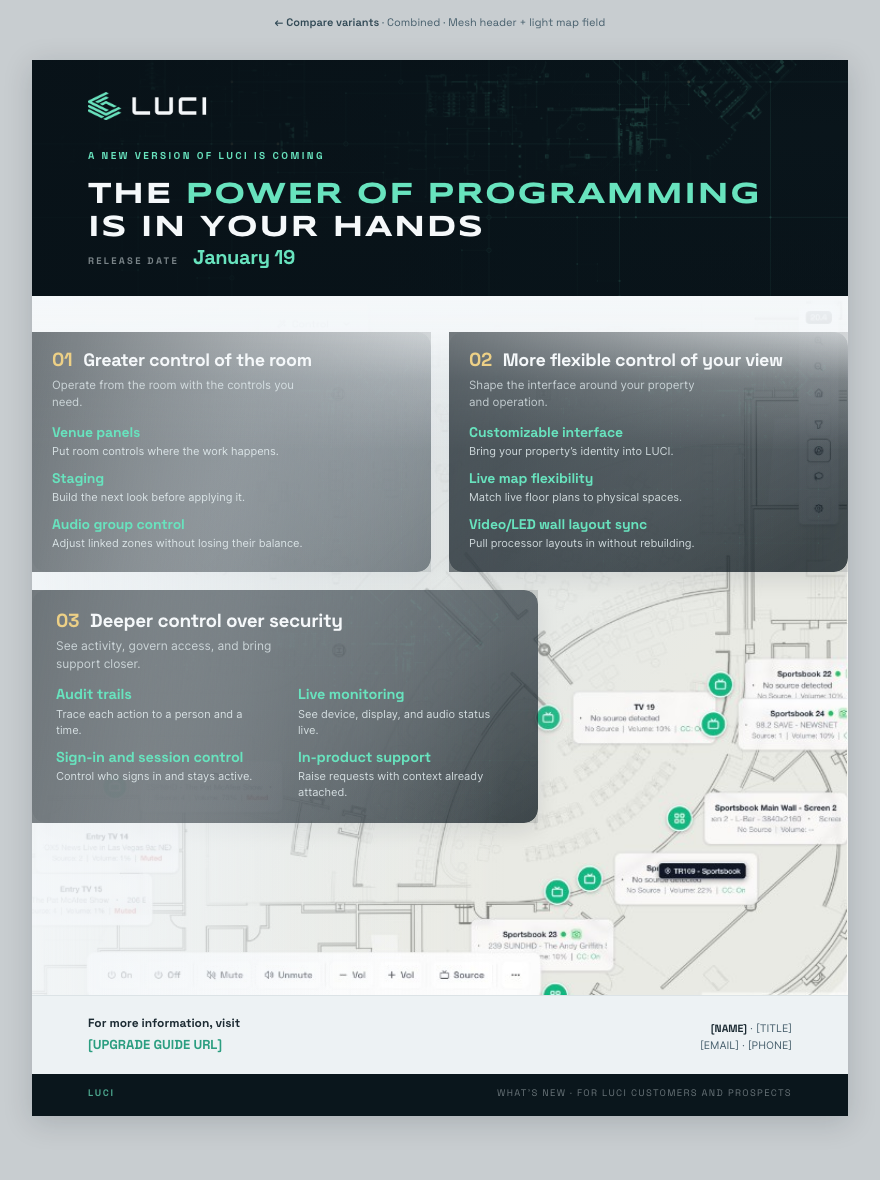
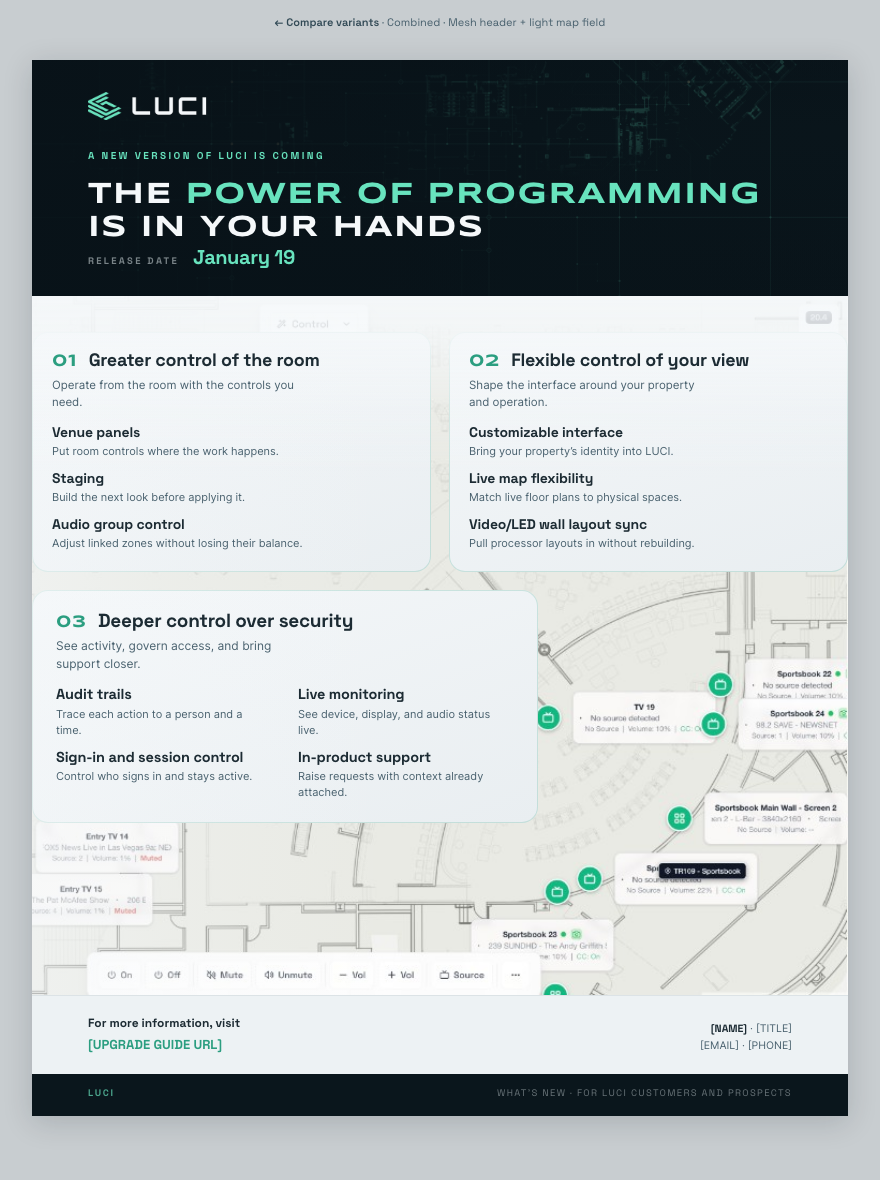
What's New one-pager: light hairline cards, brochure color discipline
Remove the dark translucent plates (mesh + scrim + navy fill).
Cards are now light gradient (#F4F7F9→#E9EEF1) with an inset
mint hairline — the brochure softcard treatment.

Accent fixed to brochure standard (was inverted/corny):
- numeral: Syncopate, mint-dark (--accent-light) — was gold
- promise name + feature names: ink-strong (near-black) — was
  off-white / mint
- lead + body: navy-muted Inter — was translucent white

Card 02 renamed 'More flexible control of your view' →
'Flexible control of your view'. Placement kept (01/02 top
row, 03 wider below). Field scrim lightened so the map shows
through more now that cards carry their own fill.

Changed region(s): [[0.0307, 0.2746, 0.9818, 0.7932], [0.1227, 0.7627, 0.1534, 0.7932]]

diff --git a/LUCI Systems Design System/ui_kits/sales/new-luci-whats-new-onepager-flow-c.html b/LUCI Systems Design System/ui_kits/sales/new-luci-whats-new-onepager-flow-c.html
@@ -31,7 +31,7 @@ body{font-family:var(--font-body);background:#c8cdd0;color:var(--ink);font-size:
 @media print{
   body{background:#fff}.hub-link{display:none}
   .sheet{margin:0;box-shadow:none;page-break-after:always}
-  .mast,.mast__mesh,.mast__scrim,.field,.field__shot,.field__scrim,.copy,.p,.p__mesh,.p__scrim,.p__inner,.foot,.close,.p__num{-webkit-print-color-adjust:exact;print-color-adjust:exact}
+  .mast,.mast__mesh,.mast__scrim,.field,.field__shot,.field__scrim,.copy,.p,.p__inner,.foot,.close,.p__num{-webkit-print-color-adjust:exact;print-color-adjust:exact}
 }
 
 /* ── HEADER (Variant B) ──────────────────────────────────────────────── */
@@ -75,14 +75,10 @@ body{font-family:var(--font-body);background:#c8cdd0;color:var(--ink);font-size:
 .field__scrim{position:absolute;inset:0;z-index:1;pointer-events:none;
   background:
     linear-gradient(to bottom,
-      rgba(245,248,250,0.96) 0%, rgba(245,248,250,0.90) 5%,
-      rgba(245,248,250,0.30) 12%, rgba(245,248,250,0) 22%),
+      rgba(245,248,250,0.94) 0%, rgba(245,248,250,0.80) 6%,
+      rgba(245,248,250,0.18) 16%, rgba(245,248,250,0) 26%),
     linear-gradient(to right,
-      rgba(245,248,250,0.82) 0%, rgba(245,248,250,0.62) 14%,
-      rgba(245,248,250,0.24) 32%, transparent 58%),
-    linear-gradient(135deg,
-      rgba(220,230,238,0.88) 0%, rgba(220,230,238,0.68) 24%,
-      rgba(220,230,238,0.30) 48%, transparent 68%)}}
+      rgba(245,248,250,0.50) 0%, rgba(245,248,250,0.22) 18%, transparent 44%)}}
 
 .copy{position:relative;z-index:2;height:100%;display:flex;flex-direction:column;
   padding:18px 32px 34px}
@@ -96,50 +92,31 @@ body{font-family:var(--font-body);background:#c8cdd0;color:var(--ink);font-size:
    base, same mesh texture at low opacity, directional scrim so type reads.
    Translucent so the map shows through — the edge is soft because the
    map reads through the plate, not because of a paper mat. */
-.p{position:relative;color:var(--off-white);padding:18px 20px 20px;
-  border-radius:14px;
-  box-shadow:0 8px 22px rgba(10,22,28,0.10)}
-.p::before{content:"";position:absolute;inset:0;z-index:0;border-radius:14px;
-  background:linear-gradient(152deg,
-    rgba(10,22,28,0.74) 0%, rgba(6,18,26,0.68) 60%, rgba(10,22,28,0.74) 100%);
-  -webkit-mask-image:radial-gradient(ellipse 100% 100% at center,#000 84%,transparent 100%);
-  mask-image:radial-gradient(ellipse 100% 100% at center,#000 84%,transparent 100%)}
-.p__mesh{position:absolute;inset:0;z-index:0;pointer-events:none;
-  width:100%;height:100%;object-fit:cover;object-position:60% 30%;opacity:0.22;
-  -webkit-mask-image:radial-gradient(ellipse 100% 100% at center,#000 84%,transparent 100%);
-  mask-image:radial-gradient(ellipse 100% 100% at center,#000 84%,transparent 100%)}
-.p__scrim{position:absolute;inset:0;z-index:1;pointer-events:none;
-  background:linear-gradient(100deg,
-    rgba(8,18,24,0.55) 0%, rgba(8,18,24,0.30) 50%, rgba(8,18,24,0.10) 100%);
-  -webkit-mask-image:radial-gradient(ellipse 100% 100% at center,#000 84%,transparent 100%);
-  mask-image:radial-gradient(ellipse 100% 100% at center,#000 84%,transparent 100%)}
-.p__inner{position:relative;z-index:2}
+.p{position:relative;color:var(--ink);padding:18px 20px 20px;
+  border-radius:16px;
+  background:linear-gradient(160deg,#F4F7F9 0%,#E9EEF1 100%);
+  box-shadow:inset 0 0 0 1px rgba(43,158,128,0.20)}
+.p__inner{position:relative;z-index:1}
 .p:nth-child(3){grid-column:1 / -1;justify-self:start;width:62%;padding:20px 24px 22px}
 
 .p__head{display:flex;align-items:baseline;gap:11px}
-/* Gold numeral = one gold per card, same rule as the header's one gold word. */
-.p__num{flex:none;font-family:var(--font);font-weight:700;font-size:19px;
-  line-height:1;letter-spacing:-0.02em;color:var(--gold)}
+.p__num{flex:none;font-family:var(--display);font-weight:700;font-size:17px;
+  line-height:1;letter-spacing:0.06em;color:var(--accent-light);padding-top:3px}
 .p__name{font-family:var(--font);font-weight:700;font-size:18px;
-  line-height:1.15;letter-spacing:-0.02em;color:var(--off-white)}
+  line-height:1.15;letter-spacing:-0.015em;color:var(--ink-strong)}
 .p:nth-child(3) .p__name{font-size:19px}
-/* Short lead under the promise name, from the locked copy. Quieter than
-   the name, present enough to orient. */
 .p__lead{margin-top:6px;font-family:var(--font-body);font-weight:400;font-size:11.5px;
-  line-height:1.45;color:rgba(235,245,248,0.72);max-width:34ch}
+  line-height:1.45;color:var(--navy-muted);max-width:34ch}
 .p:nth-child(3) .p__lead{font-size:12px}
 
-/* Mint feature names = the one structural accent on the plate, same role
-   as mint in the header (kicker, date). Bigger than the prior 12.5px so
-   they actually scan — this is the magnetism, from type not chrome. */
 .features{margin:14px 0 0;display:flex;flex-direction:column;gap:10px}
 .p:nth-child(3) .features{display:grid;grid-template-columns:1fr 1fr;gap:10px 26px}
 .ft{padding:0}
 .ft dt{display:block;font-family:var(--font);font-weight:700;font-size:14px;
-  letter-spacing:-0.01em;color:var(--mint);line-height:1.2}
+  letter-spacing:-0.01em;color:var(--ink-strong);line-height:1.2}
 .p:nth-child(3) .ft dt{font-size:14.5px}
 .ft dd{display:block;margin:3px 0 0;font-family:var(--font-body);font-weight:400;font-size:11px;
-  line-height:1.45;color:rgba(235,245,248,0.82)}
+  line-height:1.45;color:var(--navy-muted)}
 .p:nth-child(3) .ft dd{max-width:30ch}
 
 /* ── FOOTER (includes "for more information") ────────────────────────── */
@@ -187,8 +164,6 @@ body{font-family:var(--font-body);background:#c8cdd0;color:var(--ink);font-size:
 
         <div class="promises">
           <section class="p">
-            <img class="p__mesh" src="assets/textures/luci-bg-hero-with-plan-transparent-1920x1080.svg" alt="" aria-hidden="true">
-            <span class="p__scrim" aria-hidden="true"></span>
             <div class="p__inner">
               <div class="p__head">
                 <span class="p__num">01</span>
@@ -204,12 +179,10 @@ body{font-family:var(--font-body);background:#c8cdd0;color:var(--ink);font-size:
           </section>
 
           <section class="p">
-            <img class="p__mesh" src="assets/textures/luci-bg-hero-with-plan-transparent-1920x1080.svg" alt="" aria-hidden="true">
-            <span class="p__scrim" aria-hidden="true"></span>
             <div class="p__inner">
               <div class="p__head">
                 <span class="p__num">02</span>
-                <h3 class="p__name">More flexible control of your view</h3>
+                <h3 class="p__name">Flexible control of your view</h3>
               </div>
               <p class="p__lead">Shape the interface around your property and operation.</p>
               <dl class="features">
@@ -221,8 +194,6 @@ body{font-family:var(--font-body);background:#c8cdd0;color:var(--ink);font-size:
           </section>
 
           <section class="p">
-            <img class="p__mesh" src="assets/textures/luci-bg-hero-with-plan-transparent-1920x1080.svg" alt="" aria-hidden="true">
-            <span class="p__scrim" aria-hidden="true"></span>
             <div class="p__inner">
               <div class="p__head">
                 <span class="p__num">03</span>
